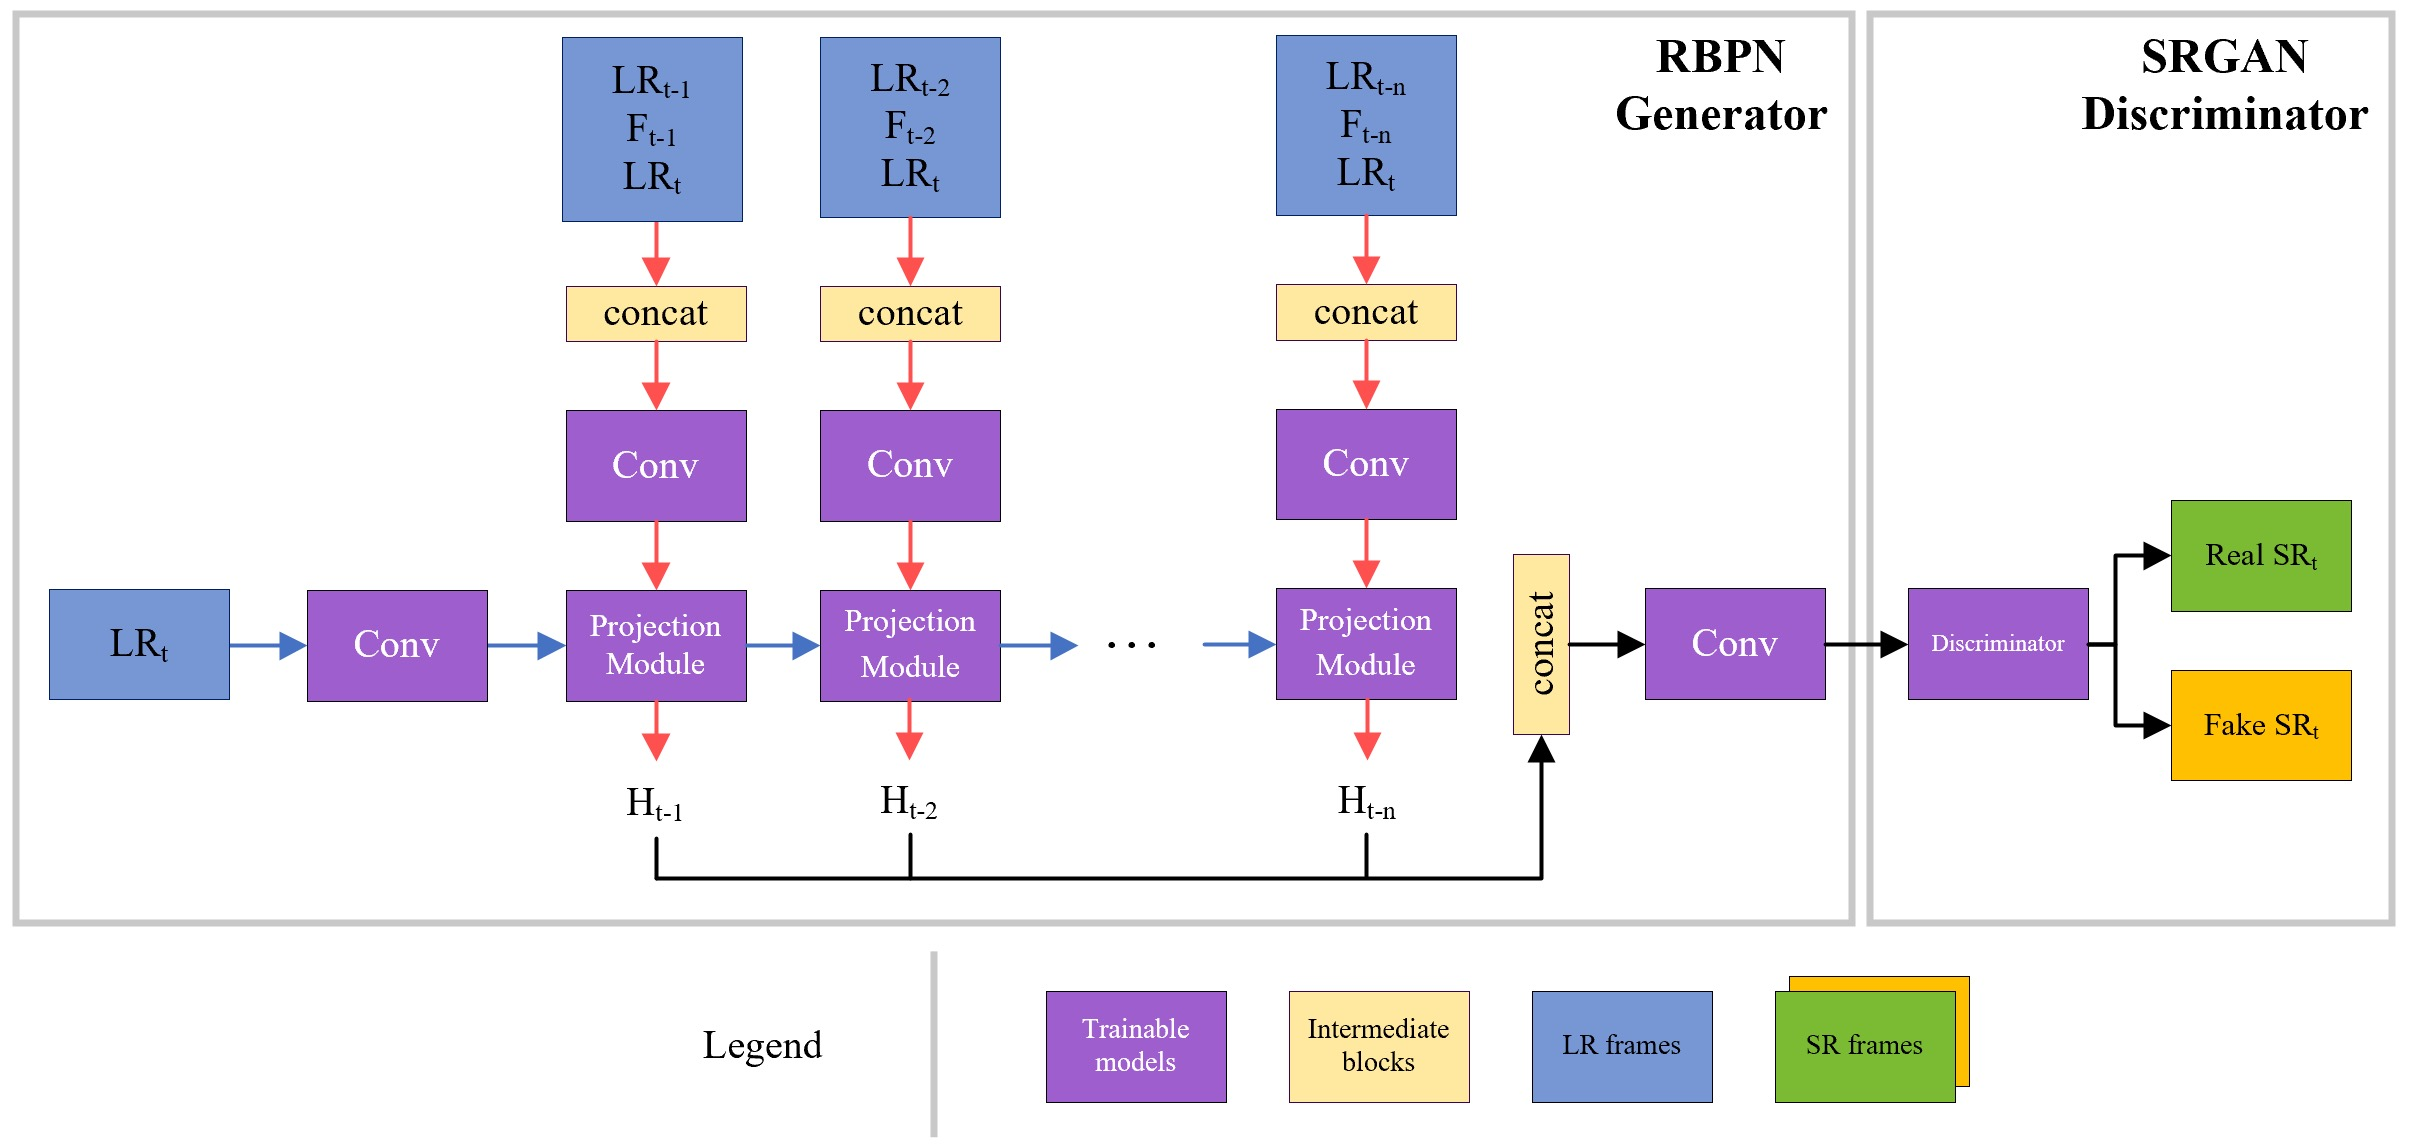
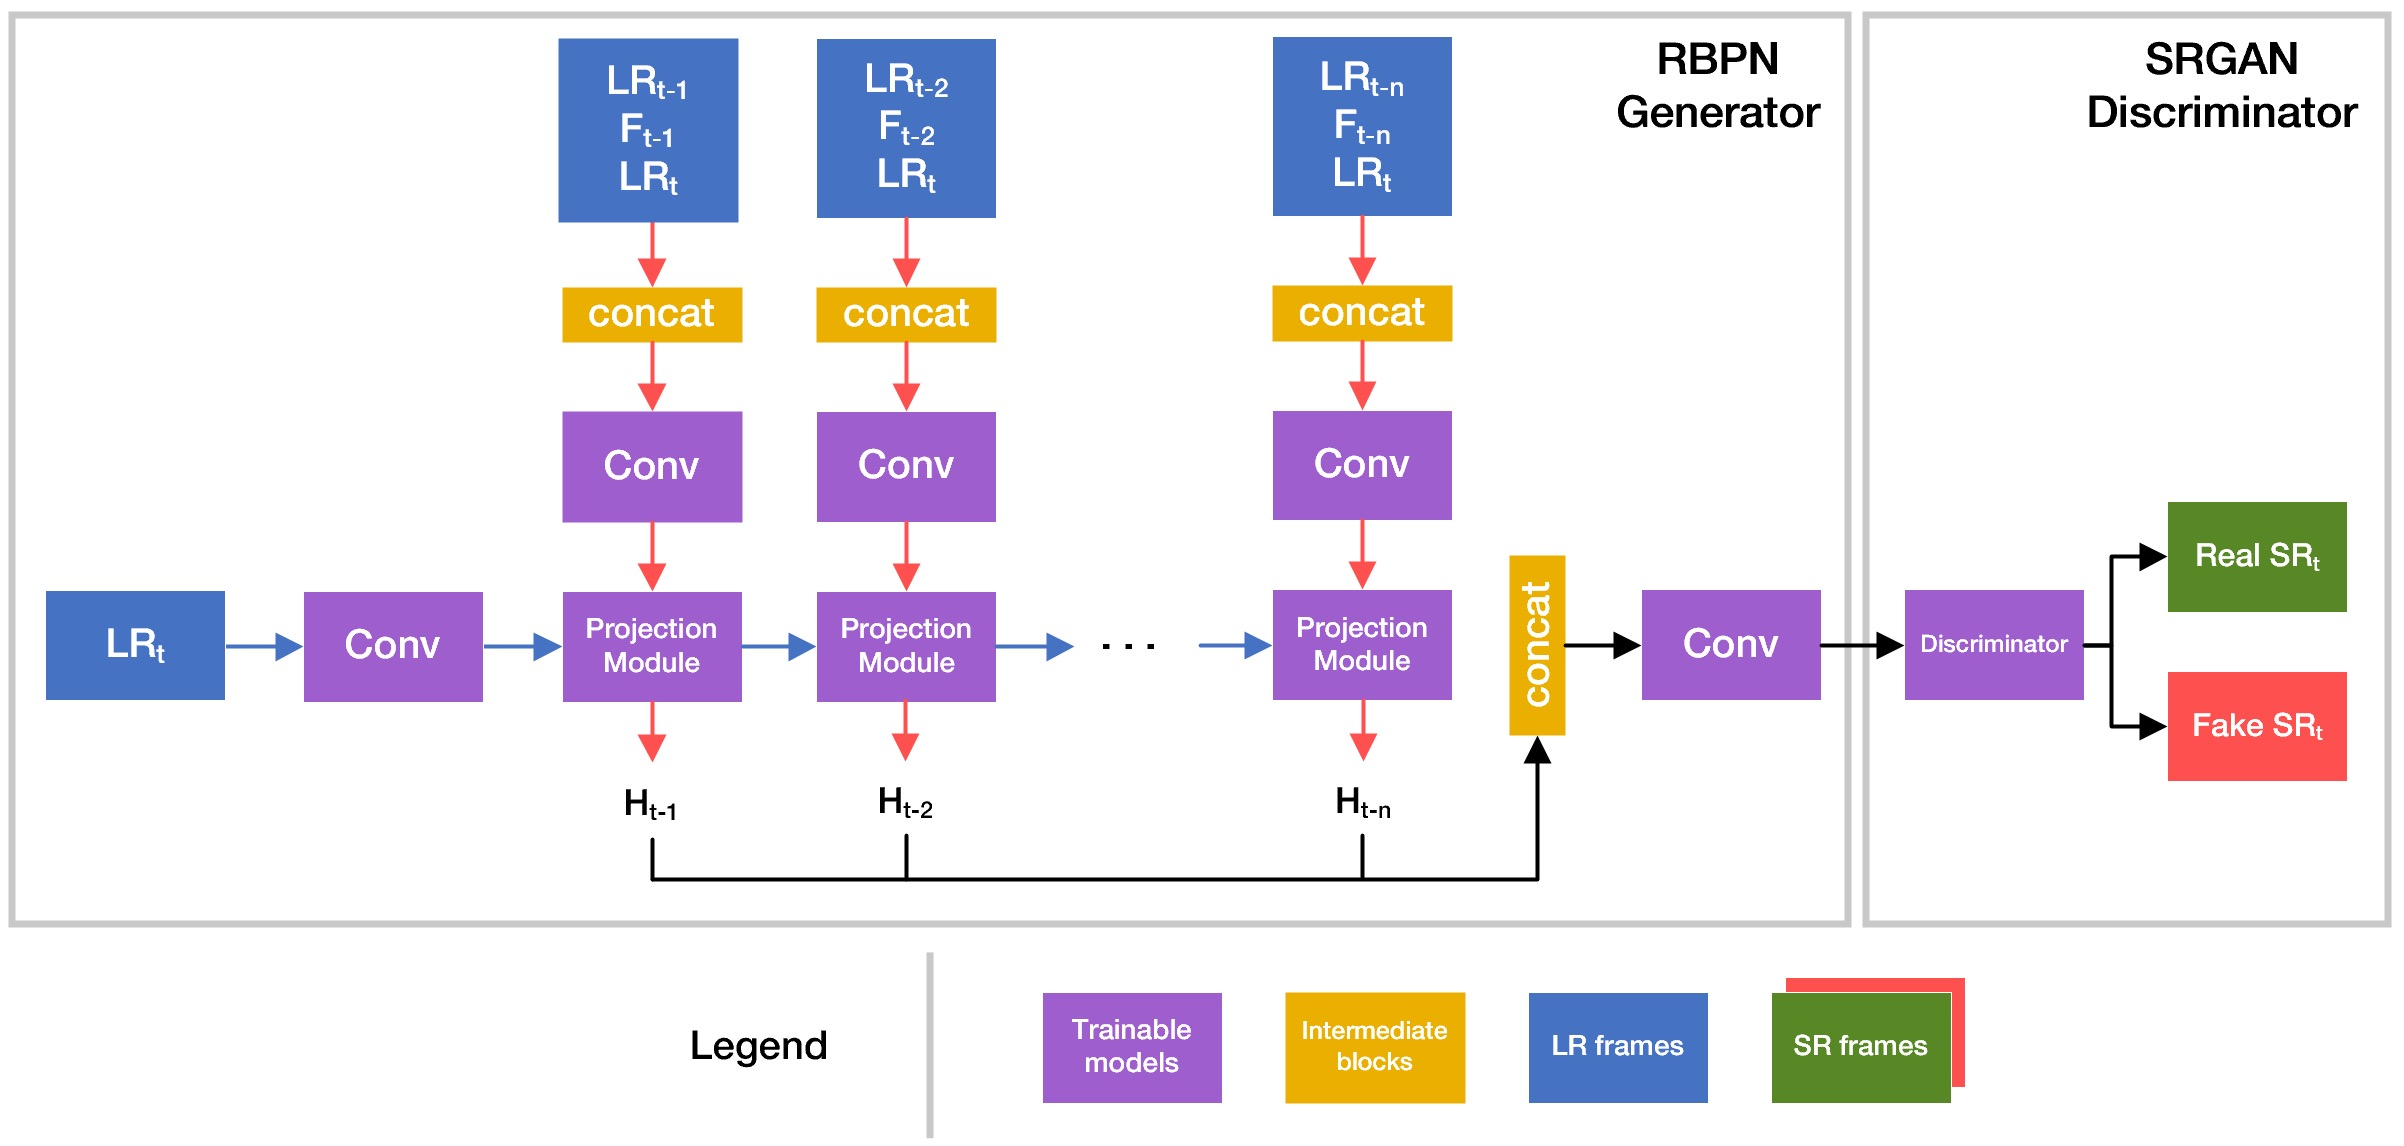
updated block diagrams, added loss distribution diag

diff --git a/README.md b/README.md
@@ -50,7 +50,7 @@ Finally, with extensive experimentation, our results demonstrate that iSeeBetter
 
 Recently, learning-based models have enhanced the performance of single-image super-resolution (SISR). However, applying SISR successively to each video frame leads to a lack of temporal coherency. Convolutional neural networks (CNNs) outperform traditional approaches in terms of image quality metrics such as peak signal to noise ratio (PSNR) and structural similarity (SSIM). Generative adversarial networks (GANs) offer a competitive advantage by being able to mitigate the issue of a lack of finer texture details usually seen with CNNs when super-resolving at large upscaling factors. We present iSeeBetter, a novel GAN-based spatio-temporal approach to video super-resolution (VSR) that addresses these issues using recurrent generative back-projection networks. iSeeBetter seeks to render temporally consistent super-resolution videos by extracting spatial and temporal information from the current and neighboring frames using the concept of recurrent back-projection networks as its generator. Furthermore, to improve the "naturality" of the super-resolved image while eliminating artifacts seen with traditional algorithms, we utilize the discriminator from super-resolution generative adversarial network (SRGAN). Although mean squared error (MSE) as a primary loss-minimization objective improves PSNR/SSIM, these metrics may not capture fine details in the image resulting in misrepresentation of perceptual quality. To address this, we use a four-fold (adversarial, perceptual, MSE and total-variation (TV)) loss function. Our results demonstrate that iSeeBetter offers superior VSR fidelity and surpasses state-of-the-art performance. 
  
-![adjacent frame similarity](https://github.com/amanchadha/iSeeBetter/blob/master/images/iSeeBetter_AFS.jpg)
+![adjacent frame similarity](https://github.com/amanchadha/iSeeBetter/blob/master/images/iSeeBetter_AFS.png)
 <p align="center">Figure 1: Adjacent frame similarity</p>
  
 ![network arch](https://github.com/amanchadha/iSeeBetter/blob/master/images/iSeeBetter_NNArch.jpg)
@@ -68,6 +68,9 @@ Figure 2 shows the iSeeBetter architecture which uses RBPN and SRGAN as its gene
 
 ![Disc](https://github.com/amanchadha/iSeeBetter/blob/master/images/Disc.jpg)
 <p align="center">Figure 5: Discriminator Architecture from SRGAN. The discriminator uses Leaky ReLUs for computing its activations.</p>
+
+![iSB_Loss](https://github.com/amanchadha/iSeeBetter/blob/master/images/iSeeBetter_Loss.png)
+<p align="center">Figure 6: The MSE, perceptual, adversarial, and TV loss components of the iSeeBetter loss function</p>
 
 ## Dataset
 
